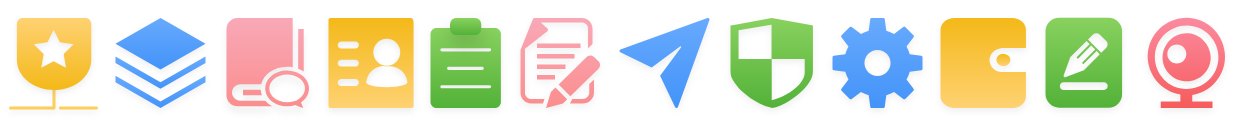
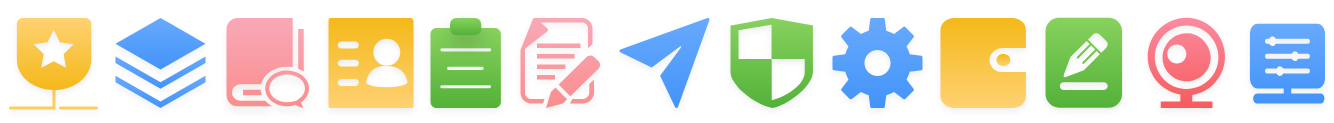
1

diff --git a/wp-content/plugins/nlyd-student/Public/css/userCenter.css b/wp-content/plugins/nlyd-student/Public/css/userCenter.css
@@ -92,6 +92,10 @@
     width: 30px;
     background-position: -372px 3px;
 }
+.my-console{
+    width: 30px;
+    background-position: -404px 3px;
+}
 .userCenter-detail a:active{
     background: #e7ebf1;
     color: rgba(38, 38, 38, 0.4);

diff --git a/wp-content/plugins/nlyd-student/Public/css/zone/zone.css b/wp-content/plugins/nlyd-student/Public/css/zone/zone.css
@@ -106,7 +106,7 @@
     background: linear-gradient(5deg,#68AAFE, #4394F9);
 }
 .scale{
-    transform: scale(0.8);
+    transform: scale(0.7 ,0.8);
     white-space: nowrap;
 }
 .zone_user_detail{

diff --git a/wp-content/plugins/nlyd-student/View/account/userCenter.php b/wp-content/plugins/nlyd-student/View/account/userCenter.php
@@ -135,7 +135,7 @@
                         </div>
                         <div class="userCenter-detail-foot"><?=__('训练记录', 'nlyd-student')?></div>
                     </a>
-                    <a class="c_black8 disabled_a"  href="<?=home_url('/account/course');?>">
+                    <a class="c_black8 disabled_a"  href="<?=home_url('/account/course/');?>">
                         <div class="userCenter-detail-head">
                             <div class="menuImg-wrapper my-course">
                             </div>
@@ -149,7 +149,7 @@
                         </div>
                         <div class="userCenter-detail-foot"><?=__('我的教练', 'nlyd-student')?></div>
                     </a>
-                    <a class="c_black8 disabled_a"  href="<?=home_url('orders');?>">
+                    <a class="c_black8 disabled_a"  href="<?=home_url('/orders/');?>">
                         <div class="userCenter-detail-head">
                             <div class="menuImg-wrapper my-order">
                             </div>
@@ -163,7 +163,7 @@
                         </div>
                         <div class="userCenter-detail-foot"><?=__('我的考级', 'nlyd-student')?></div>
                     </a>
-                    <a class="c_black8" href="<?=home_url('zone');?>">
+                    <a class="c_black8" href="<?=home_url('/zone/');?>">
                         <div class="userCenter-detail-head">
                             <div class="menuImg-wrapper my-tuiguang">
                             </div>
@@ -177,21 +177,21 @@
                         </div>
                         <div class="userCenter-detail-foot"><?=__('安全中心', 'nlyd-student')?></div>
                     </a>
-                    <a class="c_black8" href="<?=home_url('/safety/setting');?>">
+                    <a class="c_black8" href="<?=home_url('/safety/setting/');?>">
                         <div class="userCenter-detail-head">
                             <div class="menuImg-wrapper my-setting">
                             </div>
                         </div>
                         <div class="userCenter-detail-foot"><?=__('其他设置', 'nlyd-student')?></div>
                     </a>
-                    <a class="c_black8 disabled_a"  href="<?=home_url('/teams');?>">
+                    <a class="c_black8 disabled_a"  href="<?=home_url('/teams/');?>">
                         <div class="userCenter-detail-head">
                             <div class="menuImg-wrapper my-wallet">
                             </div>
                         </div>
                         <div class="userCenter-detail-foot"><?=__('我的钱包', 'nlyd-student')?></div>
                     </a>
-                    <a class="c_black8"  href="<?=home_url('account/info');?>">
+                    <a class="c_black8"  href="<?=home_url('/account/info/');?>">
                         <div class="userCenter-detail-head">
                             <div class="menuImg-wrapper edit-info">
                             </div>
@@ -199,7 +199,7 @@
                         <div class="userCenter-detail-foot"><?=__('基本信息', 'nlyd-student')?></div>
                     </a>
                     <?php if(in_array($user_info['user_roles'],array('supervisor','administrator'))):?>
-                    <a class="c_black8"  href="<?=home_url('supervisor/logs');?>">
+                    <a class="c_black8"  href="<?=home_url('/supervisor/logs/');?>">
                         <div class="userCenter-detail-head">
                             <div class="menuImg-wrapper jiansai-center">
                             </div>
@@ -207,8 +207,15 @@
                         <div class="userCenter-detail-foot"><?=__('监赛中心', 'nlyd-student')?></div>
                     </a>
                     <?php endif;?>
+                    <a class="c_black8"  href="<?=home_url('/zone/');?>">
+                        <div class="userCenter-detail-head">
+                            <div class="menuImg-wrapper my-console">
+                            </div>
+                        </div>
+                        <div class="userCenter-detail-foot"><?=__('控制台', 'nlyd-student')?></div>
+                    </a>
                 </div>
-                <div class="apply width-padding layui-row layui-bg-white width-margin-pc">
+                <!-- <div class="apply width-padding layui-row layui-bg-white width-margin-pc">
                     <div class="bold ta_c c_black apply_title"><?=__('合作申请', 'nlyd-student')?></div>
                     <a class="apply_list c_black layui-row disabled_a">
                         <div class="apply_list_line pull-left c_blue ml"><i class="iconfont fs_20">&#xe650;</i></div>
@@ -235,7 +242,7 @@
                         <div class="apply_list_line center"><?=__('申请代理赛事赞助', 'nlyd-student')?></div>
                         <div class="apply_list_line pull-right mr"><i class="iconfont fs_20">&#xe727;</i></div>
                     </a>
-                </div>
+                </div> -->
             </div>
 
             <?php

diff --git a/wp-content/plugins/nlyd-student/View/zone/match-list.php b/wp-content/plugins/nlyd-student/View/zone/match-list.php
@@ -145,23 +145,23 @@ jQuery(function($) {
                                                 +'<div class="match_header bold c_black f_16 mt_10">'+v.post_title+'</div>'
                                                 +'<div class="match_body">'
                                                     +'<div class="match_body_row">'
-                                                        +'<div class="match_body_label"><?=__('报名截止：', 'nlyd-student')?></div>'
+                                                        +'<div class="match_body_label"><?=__("报名截止：", "nlyd-student")?></div>'
                                                         +'<div class="match_body_info c_black">'+v.entry_end_time+'</div>'
                                                     +'</div>'
                                                     +'<div class="match_body_row">'
-                                                        +'<div class="match_body_label"><?=__('开赛日期：', 'nlyd-student')?></div>'
+                                                        +'<div class="match_body_label"><?=__("开赛日期：", "nlyd-student")?></div>'
                                                         +'<div class="match_body_info c_black">'+v.match_start_time+' <span class="c_blue ml_10">'+v.match_status_cn+'</span></div>'
                                                     +'</div>'
                                                     +'<div class="match_body_row">'
-                                                        +'<div class="match_body_label"><?=__('开赛地点：', 'nlyd-student')?></div>'
+                                                        +'<div class="match_body_label"><?=__("开赛地点：", "nlyd-student")?></div>'
                                                         +'<div class="match_body_info c_black">'+v.match_address+'</div>'
                                                     +'</div>'
                                                     +'<div class="match_body_row">'
-                                                        +'<div class="match_body_label"><?=__('比赛费用：', 'nlyd-student')?></div>'
+                                                        +'<div class="match_body_label"><?=__("比赛费用：", "nlyd-student")?></div>'
                                                         +'<div class="match_body_info c_black">'+v.match_cost+'</div>'
                                                     +'</div>'
                                                     +'<div class="match_body_row">'
-                                                        +'<div class="match_body_label"><?=__('已报选手：', 'nlyd-student')?></div>'
+                                                        +'<div class="match_body_label"><?=__("已报选手：", "nlyd-student")?></div>'
                                                         +'<div class="match_body_info c_black">'+v.entry_total+'</div>'
                                                     +'</div>'
                                                 +'</div>'

diff --git a/wp-content/plugins/nlyd-student/View/zone/index.php b/wp-content/plugins/nlyd-student/View/zone/index.php
@@ -22,10 +22,16 @@
                 <div class="zone_user width-padding layui-row layui-bg-white width-margin-pc">
                     <div class="img-box zone_user_img pull-left">
                         <img src="<?=$row['user_head']?>">
-                        <?php if($row['zone_type_alias'] == 'match'):?>
-                        <!-- 赛区展示 -->
-                        <div class="zone_tag c_white fs_12"><div class="scale"><?=__(date('Y').'脑力世界杯', 'nlyd-student')?></div></div>
-                        <?php endif;?>
+                        <div class="zone_tag c_white fs_12">
+                            <div class="scale">
+                                <?php if($row['zone_type_alias'] == 'match'){ ?>
+                                <!-- 赛区展示 -->
+                                    <?=__(date('Y').'脑力世界杯', 'nlyd-student')?>
+                                <?php }else{ ?>
+                                <?=__('IISC国际脑力运动', 'nlyd-student')?>
+                                <?php } ?>
+                            </div>
+                        </div>
                     </div>    
                     <div class="zone_user_detail pull-left">
                         <span class="qr_code c_orange"><i class="iconfont fs_26">&#xe651;</i></span>
@@ -83,7 +89,7 @@
                             <div class="apply_list_line pull-left <?=$v['zone_type_class']?> ml"><i class="iconfont fs_20">&#xe650;</i></div>
                             <div class="apply_list_line center"><?=__('申请设立'.$v['zone_type_name'], 'nlyd-student')?></div>
                             <div class="apply_list_line pull-right mr"><i class="iconfont fs_20">&#xe727;</i></div>
-                            <div class="apply_list_line pull-right c_orange mr_10"></div>
+                            <div class="apply_list_line pull-right c_orange mr_10"><?=__('审核中', 'nlyd-student')?></div>
                         </a>
                             <?php } ?>
                     <?php } ?>
@@ -117,6 +123,14 @@
                     </a>
                     <?php } ?>
                     <?php endif;?>
+                    <a class="apply_list c_black layui-row" href="<?=home_url('/zone/data');?>">
+                        <div class="apply_list_line pull-left">
+                            <div class="zone_bg bg_data"></div>
+                        </div>
+                        <div class="apply_list_line center">数据统计</div>
+                        <div class="apply_list_line pull-right"><i class="iconfont fs_20">&#xe727;</i></div>
+                        <div class="apply_list_line pull-right c_orange mr_10"></div>
+                    </a>
             </div>
         </div>            
     </div>

diff --git a/wp-content/plugins/nlyd-student/View/zone/recommend-list.php b/wp-content/plugins/nlyd-student/View/zone/recommend-list.php
@@ -114,15 +114,12 @@ jQuery(function($) {
                 ,isLazyimg: true
                 ,done: function(page, next){ //加载下一页
                     var postData={
-                        action:'get_user_profit_logs',
+                        action:'get_my_offline',
                         page:profit_page,
+                        
                     }
-                    if(parseInt(id)==1){//全部
-                        postData['map']="all";
-                    }else if(parseInt(id)==3){//提现
-                        postData['map']="extract";
-                    }else{//收益
-                        postData['map']="profit";
+                    if(parseInt(id)==2){//机构
+                        postData['map']="zone";
                     }
                     var lis = [];
                     $.ajax({
